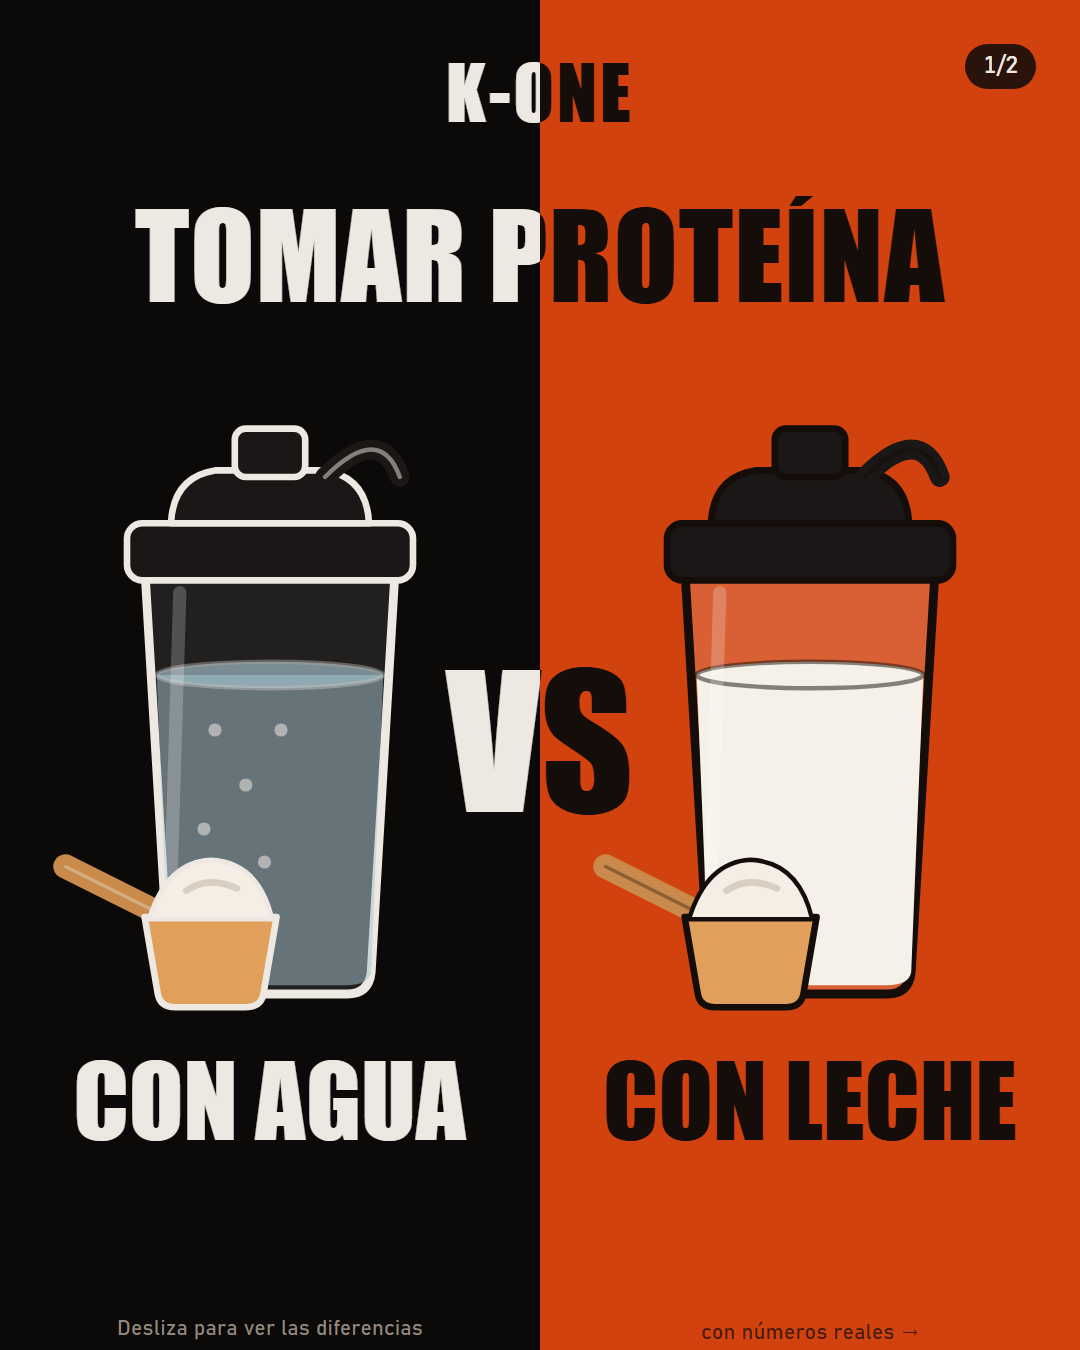
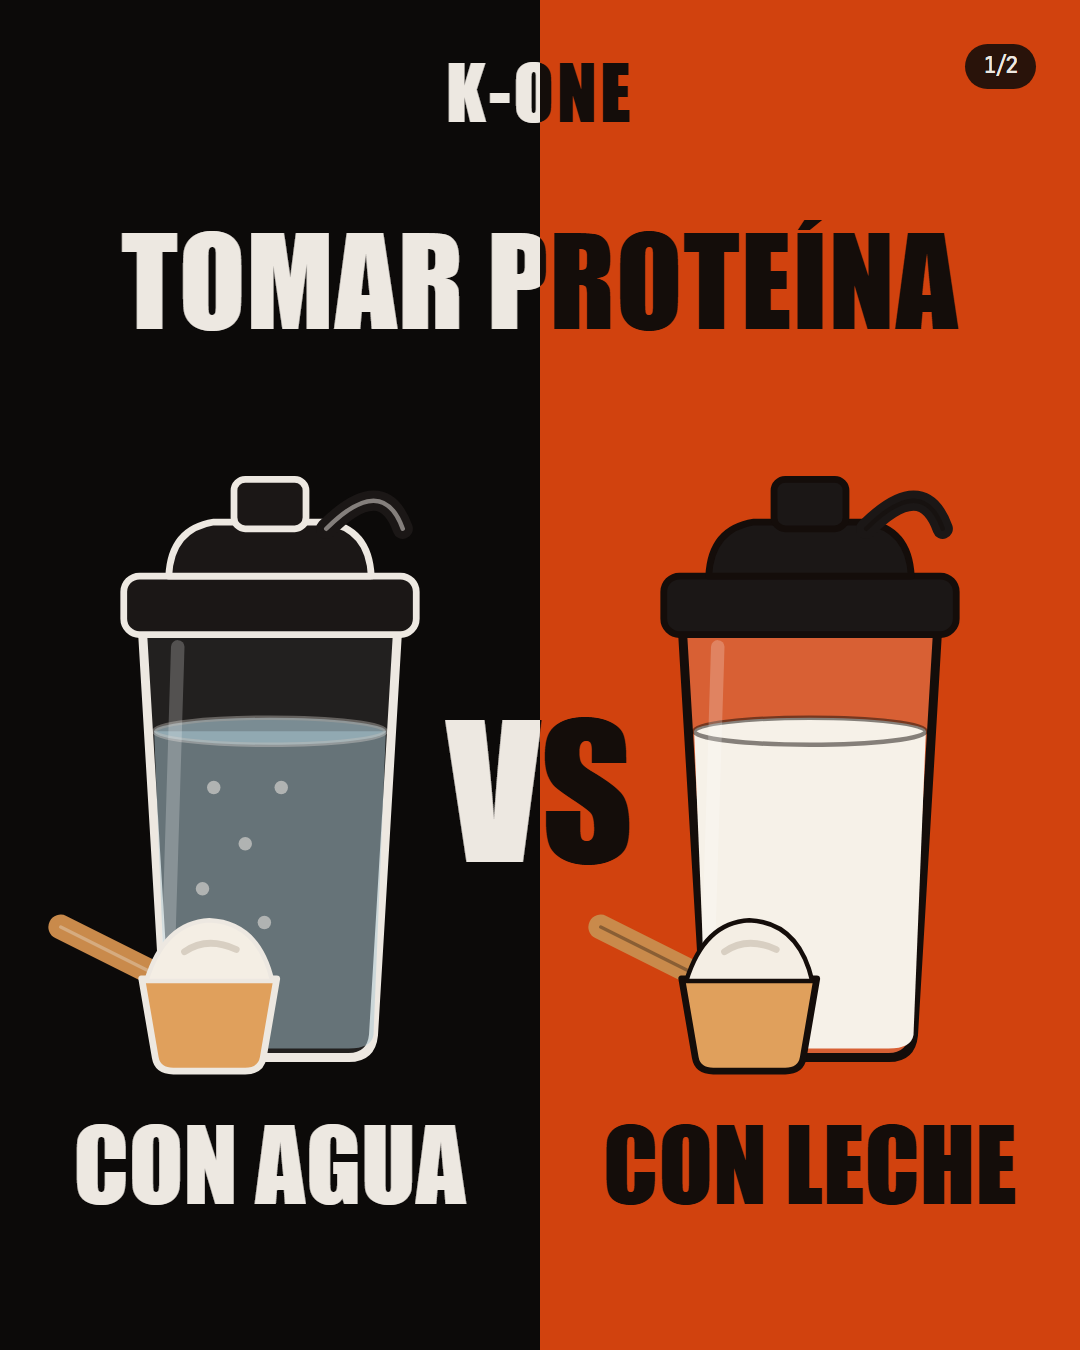
marketing: carrusel de proteína sin cifras, como la referencia

diff --git a/marketing/carteles/proteina-agua-leche.html b/marketing/carteles/proteina-agua-leche.html
@@ -2,8 +2,7 @@
 <!--
   Carrusel de Instagram (1080x1350, 2 diapositivas): proteína con agua vs con
   leche, en negro y naranja K-ONE. ?slide=1 portada, ?slide=2 comparativa.
-  Cifras: 30 g de whey (~118 kcal, ~24 g prot.) + 250 ml de agua o de leche
-  semidesnatada (~115 kcal, ~8 g prot., ~300 mg de calcio).
+  Sin cifras a propósito: mismo formato que el carrusel de referencia.
   Captura: node ../cdp-shot.mjs "file:///.../proteina-agua-leche.html?slide=1" p1.png 1080 1350 1
 -->
 <meta charset="utf-8">
@@ -29,21 +28,18 @@
   .pag{position:absolute;top:44px;right:44px;background:rgba(12,10,9,.85);color:var(--bone);border-radius:999px;padding:8px 18px;font-size:24px;font-variant-numeric:tabular-nums}
 
   /* Diapositiva 1 */
-  .s1 .titulo{top:196px;font-size:118px;letter-spacing:1px}
-  .s1 .vs{top:650px;font-size:180px}
-  .s1 .izq svg,.s1 .der svg{width:440px;margin-top:400px}
+  .s1 .titulo{top:220px;font-size:122px;letter-spacing:1px}
+  .s1 .vs{top:700px;font-size:180px}
+  .s1 .izq svg,.s1 .der svg{width:450px;margin-top:450px}
   .s1 .etq{font-size:100px;margin-top:34px}
 
   /* Diapositiva 2 */
-  .s2 .izq svg,.s2 .der svg{width:230px;margin-top:176px}
-  .s2 .etq{font-size:80px;margin-top:26px}
-  .s2 ul{list-style:none;margin-top:34px;display:flex;flex-direction:column;gap:40px;align-items:center;padding:0 38px}
-  .s2 li{text-align:center;font-size:39px;line-height:1.1;text-transform:uppercase;text-wrap:balance}
-  .s2 li b{display:block;font-family:Impact,sans-serif;font-weight:400;font-size:62px;line-height:1;font-variant-numeric:tabular-nums}
-  .s2 .izq li b{color:var(--naranja)}
-  .s2 .der li b{color:var(--tinta)}
-  .s2 .izq li{color:var(--bone)}
-  .s2 .der li{color:var(--tinta)}
+  .s2 .izq svg,.s2 .der svg{width:250px;margin-top:170px}
+  .s2 .etq{font-size:88px;margin-top:30px}
+  .s2 ul{list-style:none;margin-top:44px;display:flex;flex-direction:column;gap:44px;align-items:center;padding:0 44px}
+  .s2 li{text-align:center;font-size:42px;font-weight:700;line-height:1.12;text-transform:uppercase;text-wrap:balance;letter-spacing:.3px}
+  .s2 .izq li{color:var(--naranja)}
+  .s2 .der li{color:#FFF1E2}
   .cta{position:absolute;bottom:78px;left:0;right:0;text-align:center;font-size:30px}
 </style>
 <body>
@@ -96,28 +92,27 @@ if (slide === '1') {
     ${cruza('titulo impact', 'Tomar proteína')}
     ${cruza('vs impact', 'VS')}
     <div class="pag">1/2</div>
-    <div class="fuente cond"><span class="a" style="position:absolute;left:0;width:50%">Desliza para ver las diferencias</span><span class="b" style="position:absolute;right:0;width:50%">con números reales →</span></div>
   </div>`;
 } else {
   app.innerHTML = `<div class="lienzo s2">
     <div class="izq">${shaker(AGUA)}<div class="etq impact">Con agua</div>
-      <ul class="cond">
-        <li><b>~120 kcal</b>por batido</li>
-        <li><b>~24 g</b>de proteína</li>
-        <li>Más ligera y rápida de digerir</li>
-        <li>Mejor en etapa de definición</li>
+      <ul>
+        <li>Más rápida absorción</li>
+        <li>Menos calorías</li>
+        <li>Ideal en etapa de definición</li>
+        <li>Fácil de digerir</li>
+        <li>Sabor más ligero</li>
       </ul></div>
     <div class="der">${shaker(LECHE)}<div class="etq impact">Con leche</div>
-      <ul class="cond">
-        <li><b>~235 kcal</b>por batido</li>
-        <li><b>~32 g</b>de proteína</li>
-        <li>+ calcio: un tercio del día</li>
-        <li>Más saciante, útil en volumen</li>
+      <ul>
+        <li>Aporta calcio y vitaminas</li>
+        <li>Más proteínas y nutrientes</li>
+        <li>Mejor saciedad</li>
+        <li>Útil en etapa de volumen</li>
+        <li>Sabor más cremoso</li>
       </ul></div>
     ${marca}
     <div class="pag">2/2</div>
-    <div class="cta cond"><span style="position:absolute;left:0;width:50%;color:#EDE8E1">Tus batidos, ya cuadrados</span><span style="position:absolute;right:0;width:50%;color:#140d0a">en tu plan · <b>k-one.fit</b></span></div>
-    <div class="fuente cond"><span class="a" style="position:absolute;left:0;width:50%">30 g de proteína whey + 250 ml</span><span class="b" style="position:absolute;right:0;width:50%">de agua o leche semidesnatada</span></div>
   </div>`;
 }
 </script>
